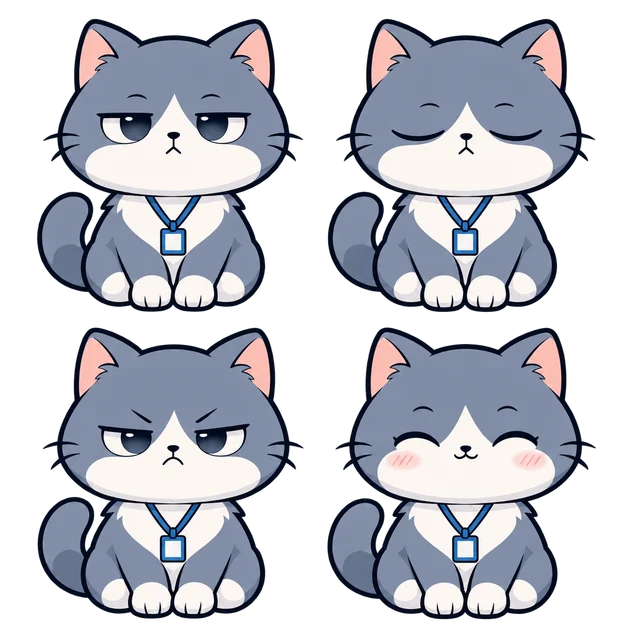
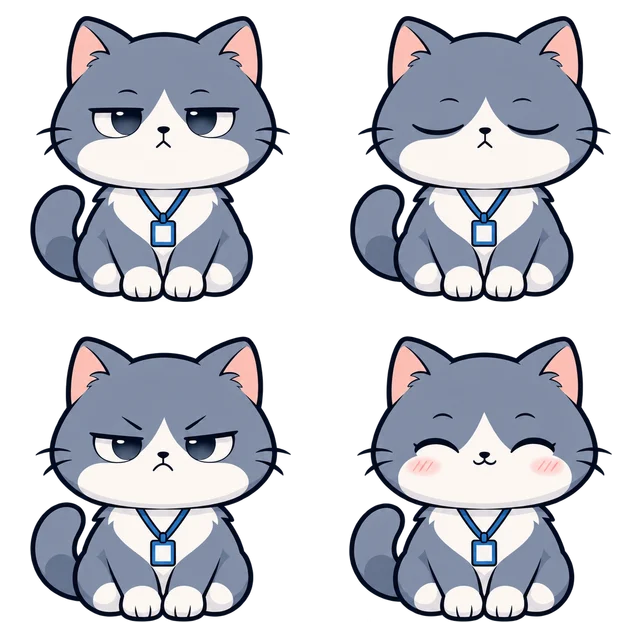
fix: 눈 깜빡임 흔들림 수정, 탭별 계정 유형으로만 로그인
- 표정 칸마다 고양이 위치가 최대 57px 달라 깜빡일 때 흔들리던 것을 같은 위치·바닥선으로 다시 배치
- 직원 탭은 직원 계정만, 담당자 탭은 관리자 계정만 로그인. 다르면 바로 로그아웃하고 맞는 탭을 안내
- 확인하는 동안 로그인 화면을 유지하고, 로그아웃 뒤 늦게 온 프로필 조회 결과는 버린다

diff --git a/src/lib/auth.tsx b/src/lib/auth.tsx
@@ -1,13 +1,15 @@
 import { createContext, useContext, useEffect, useState, type ReactNode } from 'react';
 import type { Session } from '@supabase/supabase-js';
 import { loginEmail, supabase } from './supabase';
-import type { Profile } from './types';
+import type { Profile, Role } from './types';
 
 interface AuthState {
   session: Session | null;
   profile: Profile | null;
   loading: boolean;
-  signIn: (loginId: string, password: string) => Promise<void>;
+  /** 로그인 직후 계정 유형을 확인하는 중. 이때는 로그인 화면을 그대로 둔다 */
+  verifying: boolean;
+  signIn: (loginId: string, password: string, expectedRole?: Role) => Promise<void>;
   signOut: () => Promise<void>;
 }
 
@@ -17,6 +19,7 @@ export function AuthProvider({ children }: { children: ReactNode }) {
   const [session, setSession] = useState<Session | null>(null);
   const [profile, setProfile] = useState<Profile | null>(null);
   const [loading, setLoading] = useState(true);
+  const [verifying, setVerifying] = useState(false);
 
   useEffect(() => {
     supabase.auth.getSession().then(({ data }) => {
@@ -36,23 +39,44 @@ export function AuthProvider({ children }: { children: ReactNode }) {
   const userId = session?.user.id;
   useEffect(() => {
     if (!userId) return;
+    let stale = false;
     setLoading(true);
     supabase.from('profiles').select('*').eq('id', userId).single().then(({ data }) => {
+      // 그사이 로그아웃·계정 변경이 있었으면 늦게 온 결과는 버린다
+      if (stale) return;
       setProfile(data as Profile | null);
       setLoading(false);
     });
+    return () => {
+      stale = true;
+    };
   }, [userId]);
 
-  const signIn = async (loginId: string, password: string) => {
-    const { error } = await supabase.auth.signInWithPassword({ email: loginEmail(loginId), password });
-    if (error) throw new Error(error.message.includes('Invalid') ? '아이디 또는 비밀번호가 맞지 않아요.' : error.message);
+  /** expectedRole을 주면 그 유형의 계정만 들어올 수 있다. 다르면 바로 로그아웃하고 맞는 탭을 안내한다 */
+  const signIn = async (loginId: string, password: string, expectedRole?: Role) => {
+    setVerifying(true);
+    try {
+      const { data, error } = await supabase.auth.signInWithPassword({ email: loginEmail(loginId), password });
+      if (error) throw new Error(error.message.includes('Invalid') ? '아이디 또는 비밀번호가 맞지 않아요.' : error.message);
+      if (!expectedRole) return;
+      const { data: row } = await supabase.from('profiles').select('role').eq('id', data.user.id).single();
+      const role = (row as { role: Role } | null)?.role;
+      if (role !== expectedRole) {
+        await supabase.auth.signOut();
+        throw new Error(role === 'admin'
+          ? '담당자 계정이에요. 담당자 탭에서 로그인해 주세요.'
+          : '담당자 계정이 아니에요. 직원 탭에서 로그인해 주세요.');
+      }
+    } finally {
+      setVerifying(false);
+    }
   };
 
   const signOut = async () => {
     await supabase.auth.signOut();
   };
 
-  return <AuthContext.Provider value={{ session, profile, loading, signIn, signOut }}>{children}</AuthContext.Provider>;
+  return <AuthContext.Provider value={{ session, profile, loading, verifying, signIn, signOut }}>{children}</AuthContext.Provider>;
 }
 
 export function useAuth(): AuthState {

diff --git a/src/pages/Login.tsx b/src/pages/Login.tsx
@@ -26,8 +26,8 @@ export default function Login() {
     setBusy(true);
     setError('');
     try {
-      await signIn(loginId, password);
-      // 담당자로 들어오면 관리자 화면부터 연다 (권한이 없으면 챗봇 화면으로 돌아간다)
+      await signIn(loginId, password, type);
+      // 직원 탭은 직원 계정만, 담당자 탭은 관리자 계정만 들어온다
       navigate(type === 'admin' ? '/admin' : '/', { replace: true });
     } catch (err) {
       setError(errorMessage(err));

diff --git a/src/App.tsx b/src/App.tsx
@@ -18,7 +18,8 @@ function Shell({ children }: { children: ReactNode }) {
 }
 
 function Routed() {
-  const { session, profile, loading } = useAuth();
+  const { session, profile, loading, verifying } = useAuth();
+  if (verifying) return <Login />;
   if (loading) return <div className="empty">불러오는 중…</div>;
   if (!session) return <Login />;
   if (!profile) return <div className="empty">계정 정보를 찾을 수 없어요. 관리자에게 문의해 주세요.</div>;
